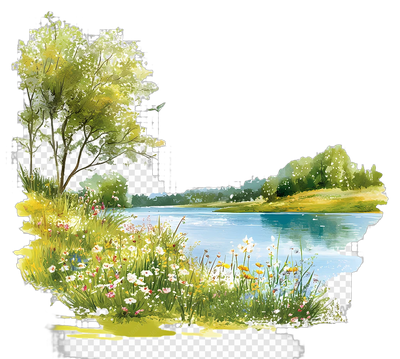
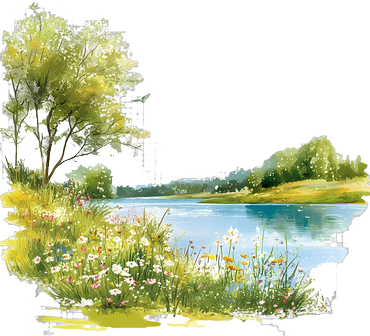
them anh

diff --git a/tachnen.py b/tachnen.py
@@ -1,0 +1,62 @@
+import os
+from pathlib import Path
+from PIL import Image
+from rembg import remove, new_session
+
+# 1. Cấu hình đường dẫn
+CURRENT_DIR = Path(__file__).parent.resolve()
+OUTPUT_DIR = CURRENT_DIR / "output_nobg"
+OUTPUT_DIR.mkdir(parents=True, exist_ok=True)
+
+# 2. Cấu hình kích thước mong muốn
+TARGET_WIDTH = 400
+
+# 3. Khởi tạo session AI (Ưu tiên GPU NVIDIA RTX A2000)
+# 'birefnet-general' hoặc 'u2net' tách nền caro giả rất sạch
+session = new_session(
+    model_name="birefnet-general",
+    providers=["CUDAExecutionProvider", "CPUExecutionProvider"]
+)
+
+# Các định dạng ảnh hỗ trợ
+VALID_EXTENSIONS = {".png", ".jpg", ".jpeg", ".webp", ".bmp"}
+
+# Lấy danh sách file ảnh cần xử lý
+files = [
+    f for f in CURRENT_DIR.iterdir()
+    if f.is_file() 
+    and f.suffix.lower() in VALID_EXTENSIONS 
+    and not f.stem.endswith("_nobg")
+]
+
+total_files = len(files)
+print(f"=== Bắt đầu xử lý {total_files} ảnh tại: {CURRENT_DIR} ===\n")
+
+for index, file_path in enumerate(files, start=1):
+    try:
+        output_file_name = f"{file_path.stem}_nobg.png"
+        output_path = OUTPUT_DIR / output_file_name
+
+        with Image.open(file_path) as img:
+            # Bước 1: Tách nền bằng AI
+            img_nobg = remove(img, session=session)
+
+            # Bước 2: Tính toán tỷ lệ chiều cao theo chiều rộng 400px
+            orig_w, orig_h = img_nobg.size
+            if orig_w != TARGET_WIDTH:
+                target_height = int((TARGET_WIDTH / orig_w) * orig_h)
+                # Dùng Resampling.LANCZOS để giữ độ sắc nét cao nhất
+                img_resized = img_nobg.resize((TARGET_WIDTH, target_height), Image.Resampling.LANCZOS)
+            else:
+                img_resized = img_nobg
+                target_height = orig_h
+
+            # Bước 3: Lưu file PNG (kèm cờ optimize giảm dung lượng)
+            img_resized.save(output_path, format="PNG", optimize=True)
+
+        print(f"[{index}/{total_files}] OK: {file_path.name} -> {output_file_name} ({TARGET_WIDTH}x{target_height}px)")
+
+    except Exception as e:
+        print(f"[{index}/{total_files}] Lỗi tại {file_path.name}: {e}")
+
+print(f"\n=== Hoàn thành! Kết quả lưu tại: {OUTPUT_DIR} ===")
